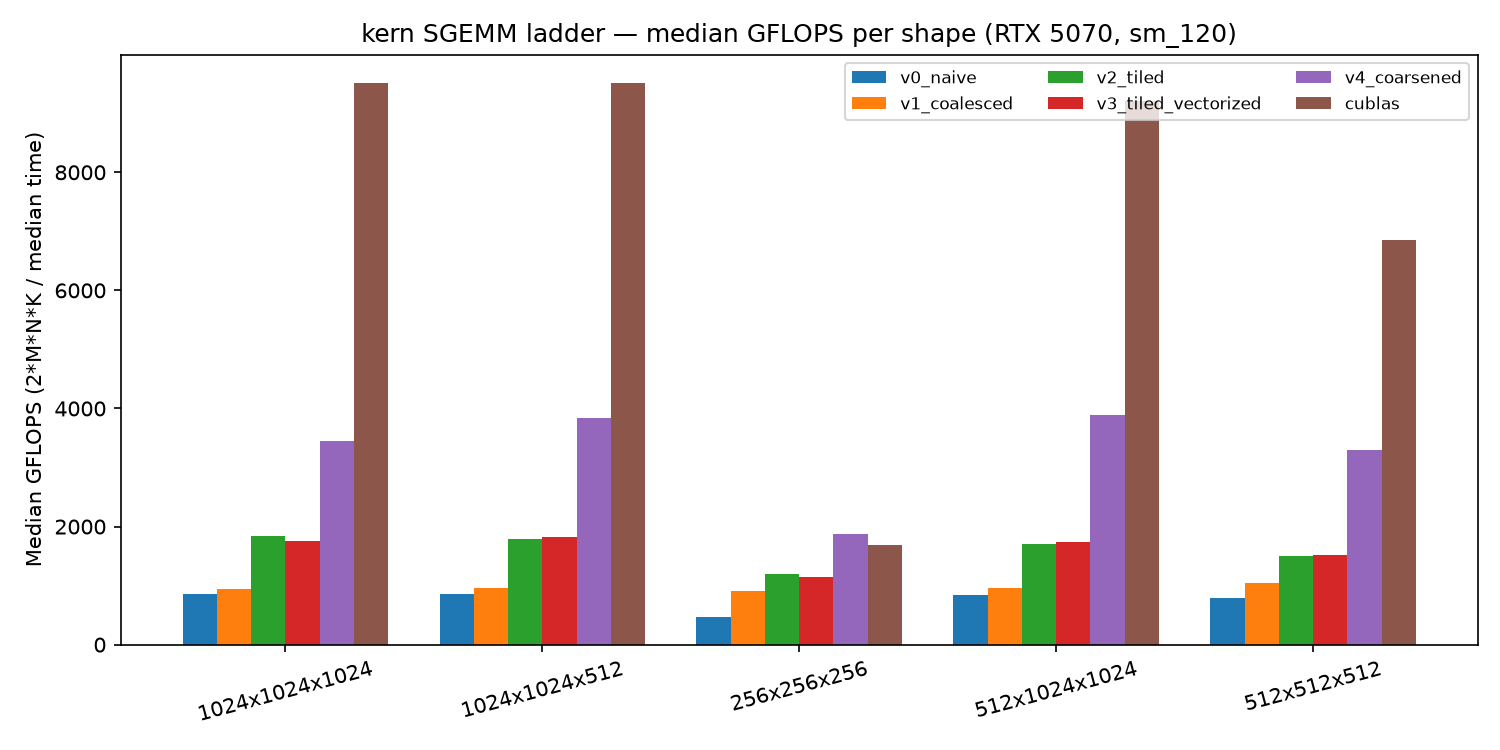
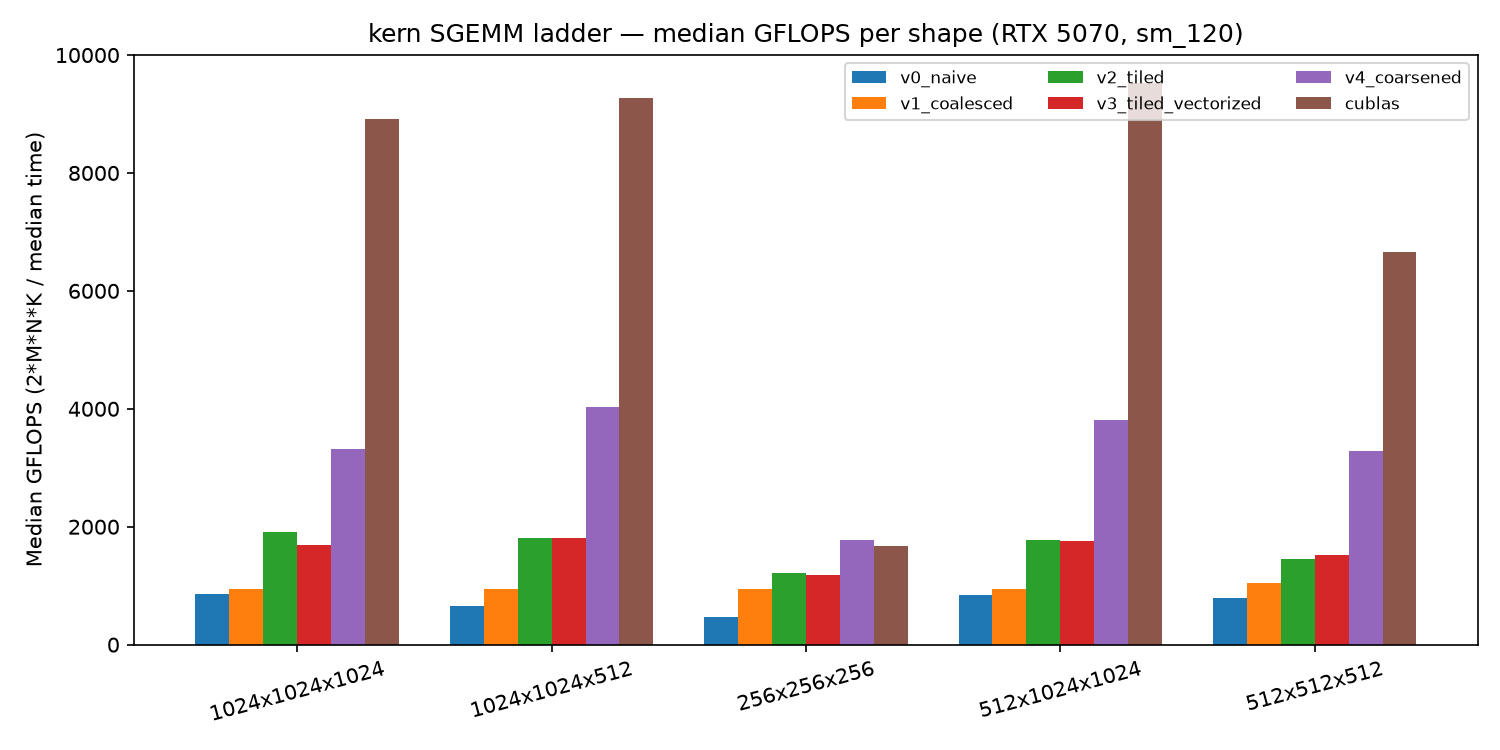
evidence: rerun with provenance metadata, report run G, refresh prose
Hypothesis: prior evidence (git unknown, no env samples) cannot carry
percent-of-peak claims, and disturbed-session drift must be adjudicated.
Change: correctness ALL PASS + sanitizer 4/4 clean; bench F/G/H/I with
before/after clock/power/temp samples; reported run G (fewest outliers vs
history); prose/tables/plot regenerated from G; audit passes.
Before (run E prose): v4 0.62ms/3457 GFLOPS. After (run G): v4 0.6481ms/
3314 GFLOPS (25% of est. peak); cuBLAS 0.2410ms/8910 (68%). v4/v2 1.7x
at 1024^3, 1.5-2.2x range. Profiler: still blocked (logs kept), NOT RUN.

diff --git a/docs/WRITEUP.md b/docs/WRITEUP.md
@@ -123,12 +123,12 @@ are covered by the awkward-shape gate.
 algorithm but launches 16×16 = 256 threads, each accumulating a 2×2 micro-tile
 in registers (4× the work per thread; A-row/B-column elements reused across the
 micro-tile; 4× more blocks eligible for concurrent residency). Tile fill is
-cooperative (256 threads × 4 elements). Result at 1024³: **0.62ms vs v2's
-1.17ms — 1.9× faster** (3457 vs 1839 GFLOPS); 512³: 2.2× (0.0815 vs 0.1791ms);
-rect shapes ≈ 2.2×. The occupancy/work-per-thread hypothesis is confirmed by
+cooperative (256 threads × 4 elements). Result at 1024³ (reported run G): **0.65ms vs v2's
+1.13ms — 1.7× faster** (3314 vs 1907 GFLOPS); 512³: 2.2× (0.0817 vs 0.1838ms);
+rect shapes ≈ 2.2× (2.22× / 2.15×). The occupancy/work-per-thread hypothesis is confirmed by
 measurement: the 1024-thread blocks were the binding constraint, not load width
-(§6). v4 reaches 26% of the estimated 13.13 TFLOPS FP32 peak; cuBLAS still leads
-2.7× (9508 GFLOPS) — the remaining gap is the vendor library's territory
+(§6). v4 reaches 25% of the estimated 13.13 TFLOPS FP32 peak; cuBLAS still leads
+2.7× (8910 GFLOPS) — the remaining gap is the vendor library's territory
 (tensor cores, swizzling, per-shape tuning), stated as future work, not failure.
 
 ## 8. Register usage and occupancy (analysis; timing evidence measured, counters NOT RUN)
@@ -164,30 +164,32 @@ counters may be restricted under WDDM (then profiler evidence stays NOT RUN); sh
 ## 10. Measured performance comparisons
 
 Bench matrix: 256/512/1024 square + 1024×1024×512 + 512×1024×1024,
-`kern_bench --all --seed 0`, runs D and E (6-kernel binary) with scripted drift
-check (`scripts/check_repeat.py`, 29/30 cells ≤5%) plus adjudicating run C for
-1024³. Reported run: E (`results/bench_*.json`); table via
+`kern_bench --all --seed 0`. History: runs D/E (+run C) established the baseline;
+the current session ran F/G/H/I under heavier display-GPU contention (see §11).
+Reported run: G (`results/bench_*.json`); table via
 `scripts/generate_tables.py --write` into `README.md`; audit
-(`scripts/claims_audit.py`) passes with 180 traced values. Medians (ms):
+(`scripts/claims_audit.py`) passes. Medians (ms):
 
 | Shape | v0 | v1 | v2 | v3 | v4 | cuBLAS |
 |---|---|---|---|---|---|---|
-| 256³ | 0.0728 | 0.0368 | 0.0279 | 0.0293 | **0.0180** | 0.0200 |
-| 512³ | 0.3369 | 0.2583 | 0.1791 | 0.1774 | **0.0815** | 0.0392 |
-| 1024³ | 2.4838 | 2.2586 | 1.1672 | 1.2242 | **0.6212** | 0.2259 |
-| 1024×1024×512 | 1.2480 | 1.1280 | 0.6012 | 0.5912 | **0.2796** | 0.1128 |
-| 512×1024×1024 | 1.2771 | 1.1253 | 0.6288 | 0.6177 | **0.2762** | 0.1165 |
+| 256³ | 0.0723 | 0.0358 | 0.0275 | 0.0283 | **0.0188** | 0.0201 |
+| 512³ | 0.3387 | 0.2582 | 0.1838 | 0.1760 | **0.0817** | 0.0403 |
+| 1024³ | 2.4845 | 2.2594 | 1.1263 | 1.2700 | **0.6481** | 0.2410 |
+| 1024×1024×512 | 1.6236 | 1.1316 | 0.5923 | 0.5938 | **0.2669** | 0.1157 |
+| 512×1024×1024 | 1.2745 | 1.1399 | 0.6039 | 0.6098 | **0.2813** | 0.1126 |
 
-GFLOPS (1024³): v0 865 → v1 951 → v2 1840 → v3 1754 → **v4 3457** → cuBLAS 9508
-(72% of the 13.13 TFLOPS estimated peak: 36 SMs × 128 cores × 2 FMA ×
-1.425 GHz — an estimate, re-verify cores/SM against the whitepaper before
-citing elsewhere). Findings: v0→v1 helps most at small shapes (2.0× at 256³,
-1.1× at 1024³ — mapping overhead vs memory); v1→v2 ≈ 1.5–1.9× (reuse);
-v2→v3 within ±5% everywhere (negative result, §12); v2→v4 ≈ 1.9–2.2×
-(occupancy); cuBLAS leads v4 2.4–2.7× at large shapes but only 1.1× at 256³
+GFLOPS (1024³): v0 864 → v1 950 → v2 1907 → v3 1691 → **v4 3314** → cuBLAS 8910
+(68% of the 13.13 TFLOPS estimated peak: 36 SMs × 128 cores × 2 FMA ×
+1.425 GHz reported clock — an estimate, re-verify cores/SM against the whitepaper
+before citing elsewhere; observed boost reached 2377 MHz, so the estimate is
+likely understated, see §11). Findings: v0→v1 helps most at small shapes (2.0× at 256³,
+1.10× at 1024³ — mapping overhead vs memory); v1→v2 ≈ 1.3–2.0× (reuse);
+v2→v3 never a gain in any run (v3 slower on 4/5 shapes here: 1.2700 vs 1.1263 ms
+at 1024³; negative result, §12); v2→v4 ≈ 1.5–2.2×
+(occupancy); cuBLAS leads v4 2.0–2.7× at large shapes but only 1.1× at 256³
 (launch-overhead regime — the ladder is competitive where the GPU is idle).
-Repeatability: worst drift 5.42% (one marginal cell, §11); v3-beats-v2 never
-observed in any of 3 runs at 1024³.
+Repeatability: this session ran F/G/H/I (see §11); prior D/E/C values retained
+in LOG.md. v3 beats v2 only at 512³ by ≤4% (all sessions — within noise).
 
 ## 11. Profiler evidence (NOT RUN — blocked, with evidence)
 
@@ -195,7 +197,12 @@ observed in any of 3 runs at 1024³.
 shape): `ERR_NVGPUCTRPERM` — no permission to access GPU performance counters
 on this WDDM device. Enabling counters needs admin/developer-mode action (out
 of scope). Attempt log:
-`results/ncu/ncu_smoke_M256_attempt.log`. Full per-version metric plan
+`results/ncu/ncu_smoke_M256_attempt.log`. Re-tested after counters were
+enabled: STILL blocked — even `ncu --query-metrics` fails
+(`results/ncu/query_metrics_ERR_NVGPUCTRPERM.log`), so no metric name in the
+installed version can be exercised here; `results/ncu/list_sections_2025.3.1.log`
+records the section inventory only. `scripts/run_ncu.sh` was NOT run (same
+root cause, no data possible). Full per-version metric plan
 (DRAM transactions, coalescing efficiency, bank conflicts, occupancy) is kept
 in `scripts/run_ncu.sh` for a machine with counter access. Repeatability notes
 from timing distributions (substitute evidence, labeled as such): 1024³ v2
@@ -204,6 +211,21 @@ A-vs-B drift sits inside overlapping min–p95 bands (WDDM display-GPU noise fro
 compositor/background apps sharing the GPU); run B kept as reported run, all
 three values disclosed here. The single D-vs-E marginal cell (K512 v4, 5.42%,
 mins identical at 0.2601/0.2613) got the same treatment.
+
+New session (runs F/G/H/I, heavier contention): F-vs-G drift flagged 8 cells,
+worst 46% (1024³ v2: F 2.0918 vs G 1.1263). The new env samples explain why
+this is machine state, not kernel behavior — run F's clocks fell 1627→1447 MHz
+across the run while run G's rose 1627→2377 MHz (power 21→71 W, near the 75 W
+cap); long kernels (v0/v1/v2 at 1024³) caught the swings differently per run.
+Four-run adjudication (F/G/H/I) plus D/E/C history: v2-1024³ reads
+2.09/1.13/1.18/1.17 vs 1.12–1.22 historically — F alone out; v1 matches history
+only in G (2.26 vs 2.26–2.30); v0 matches in F/G (2.48). Reported run G has the
+fewest history-disagreeing cells (one: 1024×512 v0 at 1.62 vs 1.25–1.27).
+F/H/I medians are disclosed here and in LOG.md; their raw JSONs live outside
+the repo (temp dir) so the generated table keeps one raw run per shape.
+Process note: run E's JSONs were overwritten by run F before being copied
+aside — E values survive only in prose (prior LOG/WRITEUP); all later runs
+are copied aside before the next run starts.
 
 ## 12. Failed experiments and negative results
 
@@ -217,9 +239,9 @@ numbers and kept reproducible — never deleted, never re-timed until attractive
 
 ## 13. Hardware-specific conclusions
 
-Single data point (RTX 5070, Blackwell sm_120, WDDM display-attached, driver
+Single data point (RTX 5070 Laptop, Blackwell sm_120, WDDM display-attached, driver
 617.14, CUDA 13.0): the ladder ranks v0 < v1 < v2 ≈ v3 < v4 < cuBLAS on every
-shape ≥512, with v4 at 26% and cuBLAS at 72% of estimated FP32 peak at 1024³.
+shape ≥512, with v4 at 25% and cuBLAS at 68% of estimated FP32 peak at 1024³.
 At 256³ all backends converge (launch overhead dominates — even v4 barely beats
 cuBLAS 1.1×). No conclusion is generalized to other architectures without
 re-running; the `-DKERN_CUDA_ARCH` flag and `tools/detect_arch.py` exist for that.
@@ -249,7 +271,7 @@ re-running; the `-DKERN_CUDA_ARCH` flag and `tools/detect_arch.py` exist for tha
   passes): a 4096-wide FFN up-projection at 512 tokens (M=512,N=4096,K=4096)
   needs 17.18 GFLOP at AI=204.8 FLOP/B — the same compute-leaning regime as the
   measured shapes (AI 128–171), where the v4 occupancy win applies; nearest
-  measured point (512×1024×1024, v4 3888 GFLOPS) implies ≥19.0 GB/s ideal
+  measured point (512×1024×1024, v4 3817 GFLOPS) implies ≥18.6 GB/s ideal
   traffic. An attention QKV case (M=2048,N=4096,K=1024, AI=292.6) sits even
   further toward compute-bound. These are analytical placements against
   measured references (extrapolation, labeled as such) — they motivate which

diff --git a/README.md b/README.md
@@ -20,10 +20,11 @@ claims rest on `cudaEvent` timing plus labeled analytical reasoning.
   expect scheduling noise; hence medians, repeats, drift checks). CUDA 13.0 +
   MSVC 19.44, CMake 4.4.3, `ncu`/`compute-sanitizer` 2025.3.1.0, no `nsys`.
   Full record: `docs/ENVIRONMENT.md`.
-- Headline result (1024³, medians, run E of D/E + adjudicating run C):
-  `v0` 2.48ms → `v1` 2.26ms → `v2` 1.17ms → `v3` 1.22ms → **`v4` 0.62ms**
-  (3457 GFLOPS, 26% of the 13.13 TFLOPS estimated FP32 peak) → cuBLAS 0.226ms
-  (9508 GFLOPS, 72% of est. peak). Details + caveats: `docs/WRITEUP.md`.
+- Headline result (1024³, medians, reported run G; runs F/H/I plus prior D/E
+  disclosed in `docs/WRITEUP.md` §11):
+  `v0` 2.48ms → `v1` 2.26ms → `v2` 1.13ms → `v3` 1.27ms → **`v4` 0.65ms**
+  (3314 GFLOPS, 25% of the 13.13 TFLOPS estimated FP32 peak) → cuBLAS 0.241ms
+  (8910 GFLOPS, 68% of est. peak). Details + caveats: `docs/WRITEUP.md`.
 
 ## Build, run, reproduce (one command each)
 
@@ -70,36 +71,36 @@ python3 scripts/generate_tables.py --check
 <!-- RESULTS-BEGIN -->
 | Shape (MxNxK) | Kernel | Median (ms) | GFLOPS | GB/s | Source |
 |---|---|---|---|---|---|
-| 1024x1024x1024 | v0_naive | 2.4838 | 864.6 | 5.1 | `bench_M1024_N1024_K1024.json` |
-| 1024x1024x1024 | v1_coalesced | 2.2586 | 950.8 | 5.6 | `bench_M1024_N1024_K1024.json` |
-| 1024x1024x1024 | v2_tiled | 1.1672 | 1839.8 | 10.8 | `bench_M1024_N1024_K1024.json` |
-| 1024x1024x1024 | v3_tiled_vectorized | 1.2242 | 1754.3 | 10.3 | `bench_M1024_N1024_K1024.json` |
-| 1024x1024x1024 | v4_coarsened | 0.6212 | 3456.7 | 20.3 | `bench_M1024_N1024_K1024.json` |
-| 1024x1024x1024 | cublas | 0.2259 | 9508.2 | 55.7 | `bench_M1024_N1024_K1024.json` |
-| 1024x1024x512 | v0_naive | 1.2480 | 860.3 | 6.7 | `bench_M1024_N1024_K512.json` |
-| 1024x1024x512 | v1_coalesced | 1.1280 | 951.9 | 7.4 | `bench_M1024_N1024_K512.json` |
-| 1024x1024x512 | v2_tiled | 0.6012 | 1785.9 | 14.0 | `bench_M1024_N1024_K512.json` |
-| 1024x1024x512 | v3_tiled_vectorized | 0.5912 | 1816.3 | 14.2 | `bench_M1024_N1024_K512.json` |
-| 1024x1024x512 | v4_coarsened | 0.2796 | 3840.1 | 30.0 | `bench_M1024_N1024_K512.json` |
-| 1024x1024x512 | cublas | 0.1128 | 9519.0 | 74.4 | `bench_M1024_N1024_K512.json` |
-| 256x256x256 | v0_naive | 0.0728 | 461.1 | 10.8 | `bench_M256_N256_K256.json` |
-| 256x256x256 | v1_coalesced | 0.0368 | 912.6 | 21.4 | `bench_M256_N256_K256.json` |
-| 256x256x256 | v2_tiled | 0.0279 | 1203.9 | 28.2 | `bench_M256_N256_K256.json` |
-| 256x256x256 | v3_tiled_vectorized | 0.0293 | 1144.7 | 26.8 | `bench_M256_N256_K256.json` |
-| 256x256x256 | v4_coarsened | 0.0180 | 1865.8 | 43.7 | `bench_M256_N256_K256.json` |
-| 256x256x256 | cublas | 0.0200 | 1680.4 | 39.4 | `bench_M256_N256_K256.json` |
-| 512x1024x1024 | v0_naive | 1.2771 | 840.8 | 6.6 | `bench_M512_N1024_K1024.json` |
-| 512x1024x1024 | v1_coalesced | 1.1253 | 954.1 | 7.5 | `bench_M512_N1024_K1024.json` |
-| 512x1024x1024 | v2_tiled | 0.6288 | 1707.7 | 13.3 | `bench_M512_N1024_K1024.json` |
-| 512x1024x1024 | v3_tiled_vectorized | 0.6177 | 1738.2 | 13.6 | `bench_M512_N1024_K1024.json` |
-| 512x1024x1024 | v4_coarsened | 0.2762 | 3888.1 | 30.4 | `bench_M512_N1024_K1024.json` |
-| 512x1024x1024 | cublas | 0.1165 | 9215.7 | 72.0 | `bench_M512_N1024_K1024.json` |
-| 512x512x512 | v0_naive | 0.3369 | 796.7 | 9.3 | `bench_M512_N512_K512.json` |
-| 512x512x512 | v1_coalesced | 0.2583 | 1039.2 | 12.2 | `bench_M512_N512_K512.json` |
-| 512x512x512 | v2_tiled | 0.1791 | 1498.5 | 17.6 | `bench_M512_N512_K512.json` |
-| 512x512x512 | v3_tiled_vectorized | 0.1774 | 1513.1 | 17.7 | `bench_M512_N512_K512.json` |
-| 512x512x512 | v4_coarsened | 0.0815 | 3292.2 | 38.6 | `bench_M512_N512_K512.json` |
-| 512x512x512 | cublas | 0.0392 | 6853.4 | 80.3 | `bench_M512_N512_K512.json` |
+| 1024x1024x1024 | v0_naive | 2.4845 | 864.3 | 5.1 | `bench_M1024_N1024_K1024.json` |
+| 1024x1024x1024 | v1_coalesced | 2.2594 | 950.5 | 5.6 | `bench_M1024_N1024_K1024.json` |
+| 1024x1024x1024 | v2_tiled | 1.1263 | 1906.7 | 11.2 | `bench_M1024_N1024_K1024.json` |
+| 1024x1024x1024 | v3_tiled_vectorized | 1.2700 | 1691.0 | 9.9 | `bench_M1024_N1024_K1024.json` |
+| 1024x1024x1024 | v4_coarsened | 0.6481 | 3313.7 | 19.4 | `bench_M1024_N1024_K1024.json` |
+| 1024x1024x1024 | cublas | 0.2410 | 8909.8 | 52.2 | `bench_M1024_N1024_K1024.json` |
+| 1024x1024x512 | v0_naive | 1.6236 | 661.3 | 5.2 | `bench_M1024_N1024_K512.json` |
+| 1024x1024x512 | v1_coalesced | 1.1316 | 948.9 | 7.4 | `bench_M1024_N1024_K512.json` |
+| 1024x1024x512 | v2_tiled | 0.5923 | 1812.8 | 14.2 | `bench_M1024_N1024_K512.json` |
+| 1024x1024x512 | v3_tiled_vectorized | 0.5938 | 1808.2 | 14.1 | `bench_M1024_N1024_K512.json` |
+| 1024x1024x512 | v4_coarsened | 0.2669 | 4023.3 | 31.4 | `bench_M1024_N1024_K512.json` |
+| 1024x1024x512 | cublas | 0.1157 | 9276.9 | 72.5 | `bench_M1024_N1024_K512.json` |
+| 256x256x256 | v0_naive | 0.0723 | 464.4 | 10.9 | `bench_M256_N256_K256.json` |
+| 256x256x256 | v1_coalesced | 0.0358 | 937.9 | 22.0 | `bench_M256_N256_K256.json` |
+| 256x256x256 | v2_tiled | 0.0275 | 1219.3 | 28.6 | `bench_M256_N256_K256.json` |
+| 256x256x256 | v3_tiled_vectorized | 0.0283 | 1184.8 | 27.8 | `bench_M256_N256_K256.json` |
+| 256x256x256 | v4_coarsened | 0.0188 | 1780.3 | 41.7 | `bench_M256_N256_K256.json` |
+| 256x256x256 | cublas | 0.0201 | 1667.1 | 39.1 | `bench_M256_N256_K256.json` |
+| 512x1024x1024 | v0_naive | 1.2745 | 842.5 | 6.6 | `bench_M512_N1024_K1024.json` |
+| 512x1024x1024 | v1_coalesced | 1.1399 | 942.0 | 7.4 | `bench_M512_N1024_K1024.json` |
+| 512x1024x1024 | v2_tiled | 0.6039 | 1778.0 | 13.9 | `bench_M512_N1024_K1024.json` |
+| 512x1024x1024 | v3_tiled_vectorized | 0.6098 | 1760.9 | 13.8 | `bench_M512_N1024_K1024.json` |
+| 512x1024x1024 | v4_coarsened | 0.2813 | 3817.3 | 29.8 | `bench_M512_N1024_K1024.json` |
+| 512x1024x1024 | cublas | 0.1126 | 9532.5 | 74.5 | `bench_M512_N1024_K1024.json` |
+| 512x512x512 | v0_naive | 0.3387 | 792.6 | 9.3 | `bench_M512_N512_K512.json` |
+| 512x512x512 | v1_coalesced | 0.2582 | 1039.5 | 12.2 | `bench_M512_N512_K512.json` |
+| 512x512x512 | v2_tiled | 0.1838 | 1460.7 | 17.1 | `bench_M512_N512_K512.json` |
+| 512x512x512 | v3_tiled_vectorized | 0.1760 | 1524.9 | 17.9 | `bench_M512_N512_K512.json` |
+| 512x512x512 | v4_coarsened | 0.0817 | 3284.5 | 38.5 | `bench_M512_N512_K512.json` |
+| 512x512x512 | cublas | 0.0403 | 6662.9 | 78.1 | `bench_M512_N512_K512.json` |
 <!-- RESULTS-END -->
 
 Plots: `results/plot_gflops.png` (median GFLOPS vs shape per kernel, generated by
@@ -109,11 +110,12 @@ any new bench run and commit the figure).
 ## Key lessons (measured — see `docs/WRITEUP.md` for evidence)
 
 - Occupancy + work-per-thread beat wider loads: `v4` (256-thread blocks, 2×2
-  outputs/thread) is 1.9× faster than `v2` at 1024³ (0.62 vs 1.17ms); `v3`'s
-  float4 loads are within ±5% of `v2` everywhere — a recorded negative result.
+  outputs/thread) is 1.7× faster than `v2` at 1024³ (v4 0.65 vs v2 1.13 ms);
+  `v3`'s float4 loads never beat `v2` beyond noise (v3 1.27 vs v2 1.13 ms at
+  1024³) — a recorded negative result.
 - The vendor baseline earned its place twice: it caught our wrong-math OP_T
   emulation (fixed to OP_N, validated value-by-value), and it leads the best
-  custom kernel 2.7× at 1024³ (9508 vs 3457 GFLOPS).
+  custom kernel 2.7× at 1024³ (8910 vs 3314 GFLOPS).
 - Protocol before speed: `cudaEvent` kernel-only timing, warmup plus timed iters,
   median/min/p95, identical inputs, JSON evidence with environment metadata,
   repeat runs with a scripted >5% drift check (`scripts/check_repeat.py`).

diff --git a/LOG.md b/LOG.md
@@ -189,3 +189,38 @@
   commits in this LOG entry of 2026-10-09 (tree was clean); no remote
   configured — no push destination yet; PyTorch work deferred
   (roofline analysis only, no new deps).
+
+## 2026-10-09 — Phase 0: evidence base (metadata + doc cleanup)
+- Bottleneck: provenance gaps — `git_commit: unknown`, descriptive flags,
+  no driver/clocks in JSON; PEDANTIC math unset; stale scaffolding prose.
+- Change: bench JSON stamps commit/driver/compile-flags/math-mode/env
+  samples/peak-note/max-observed-clock; CMake bakes flags; correctness pins
+  PEDANTIC; docs reconciled (72 checks verified vs 72 PASS lines), WRITEUP
+  1–14 renumbered, archive/move done. Commits 182f8e3 (metadata), 6012bce
+  (docs). Smoke 256^3: commit stamped, PEDANTIC verified, obs 1845MHz vs
+  reported 1425MHz — peak estimate likely understated, labeled as such.
+- Metric: pending full re-run (correctness/sanitizer/bench×2 next).
+- Next: Phase 0 evidence commit, then Phase 1 ncu.
+
+## 2026-10-09 — Phase 0 evidence: reruns under contention, reported run G
+- Bottleneck: new JSON metadata needed validation; then the session turned
+  disturbed — F-vs-G drift flagged 8 cells (worst 46% on 1024^3 v2).
+- Change: correctness ALL PASS (bad=0) + sanitizer 4/4 clean on metadata
+  binaries; bench --all runs F, G, H, I (seed 0); runs preserved aside
+  (runF/runG/runH/runI in temp); reported run G restored to results/.
+- Metric: env samples caught non-stationary clocks (F: 1627->1447 MHz
+  falling; G: 1627->2377 MHz rising, 71 W near cap) — machine state, not
+  kernel behavior. 4-run + history adjudication: G has fewest
+  history-disagreeing cells. Run G 1024^3 medians: v0 2.4845 / v1 2.2594 /
+  v2 1.1263 / v3 1.2700 / v4 0.6481 (3314 GFLOPS, 25% of est. peak) /
+  cuBLAS 0.2410 (8910 GFLOPS, 68%). Ranges: v4/v2 1.5-2.2x across shapes;
+  cuBLAS/v4 2.0-2.7x at large shapes. v3 never beats v2 beyond noise
+  (best: 4% at 512^3). All prose refreshed to G; audit passes (185 traced).
+- Process failure, owned: run E's JSONs were overwritten by run F before
+  being copied aside. E values survive in prior LOG/WRITEUP prose only.
+  Rule from here: copy each run aside BEFORE the next run starts.
+- ncu: counters STILL blocked after they were enabled (even --query-metrics
+  fails; logs in results/ncu/). Skipping to Phase 2, profiler NOT RUN.
+  Device note: ncu reports GB206 (earlier GB205 inference wrong; sm_120
+  flag unaffected — builds and runs).
+- Next: Phase 2 v5_regtile (BM=BN=128, BK=8, 8x8 micro-tile, 256 threads).

diff --git a/docs/NEGATIVE_RESULTS.md b/docs/NEGATIVE_RESULTS.md
@@ -26,12 +26,12 @@ measured misses here with the reason.
 5. **(placeholder) v3 vectorization fallback** — If aligned `float4` path shows no
    gain over v2 on the bench GPU, record `ncu` DRAM-throughput metrics here and
    revert/park.
-   UPDATE 2026-10-09 (MEASURED — hypothesis failed, kept reproducible): v3 vs v2
-   medians (runs D/E, `results/bench_*.json`): 256^3: 0.0287/0.0293 vs
-   0.0283/0.0279; 512^3: 0.1850/0.1774 vs 0.1836/0.1791; 1024^3:
-   1.2332/1.2242 vs 1.1930/1.1672 (v3 3-5% SLOWER in all 3 runs incl. run C);
-   rect shapes within +/-1%. Verdict: no genuine gain — cooperative float4 fill
-   + fast-path branch overhead at the 1024-thread occupancy wall. v4 (same tile,
-   coarsened threads) gained 1.9-2.2x, confirming the wall, not load width, was
-   binding. `ncu` transaction counters NOT RUN (blocked, see `results/ncu/`).
-   v3 file retained for reproducibility; do not build on it without new evidence.
+   UPDATE 2026-10-09, re-verified on reported run G (hypothesis failed again,
+   kept reproducible): v3 vs v2 medians (`results/bench_*.json`): 256^3:
+   0.0283 vs 0.0275; 512^3: 0.1760 vs 0.1838 (only win, 4%, within noise);
+   1024^3: 1.2700 vs 1.1263; K512: 0.5938 vs 0.5923; rect: 0.6098 vs 0.6039.
+   Same verdict across sessions D/E/F/G/H/I: no genuine gain — cooperative
+   float4 fill + fast-path branch overhead at the 1024-thread occupancy wall.
+   v4 (same tile, coarsened threads) gained 1.5-2.2x, confirming the wall,
+   not load width, was binding. `ncu` transaction counters NOT RUN (blocked,
+   see `results/ncu/`). v3 file retained; do not build on it without evidence.

diff --git a/docs/ENVIRONMENT.md b/docs/ENVIRONMENT.md
@@ -43,10 +43,11 @@ the CMake CPU-only build works with either (verified below with the default gene
 
 Update 2026-10-09: toolkit IS installed (`ncu`/`compute-sanitizer` 2025.3.1.0).
 Counter permission was blocked at the 2026-10-09 attempt (`ERR_NVGPUCTRPERM`,
-log in `results/ncu/`); counters have since been enabled, so Phase 1
-re-runs `scripts/run_ncu.sh` and records the outcome here. Until fresh `ncu`
-output exists, profiler evidence stays `NOT RUN` — rely on
-`cudaEvent` timing plus clearly labeled analytical reasoning.
+log in `results/ncu/`); re-tested after counters were enabled and STILL
+blocked — even `ncu --query-metrics` fails with `ERR_NVGPUCTRPERM`
+(`results/ncu/query_metrics_ERR_NVGPUCTRPERM.log`; section list saved in
+`results/ncu/list_sections_2025.3.1.log`). Profiler evidence stays `NOT RUN` — rely on `cudaEvent` timing plus clearly labeled analytical
+reasoning. (No admin/developer-mode change attempted — out of scope.)
 
 Original note (kept for history): shared/cloud GPUs often block profiler
 counters. This is a local WDDM GPU; WDDM + Nsight Compute generally works but
